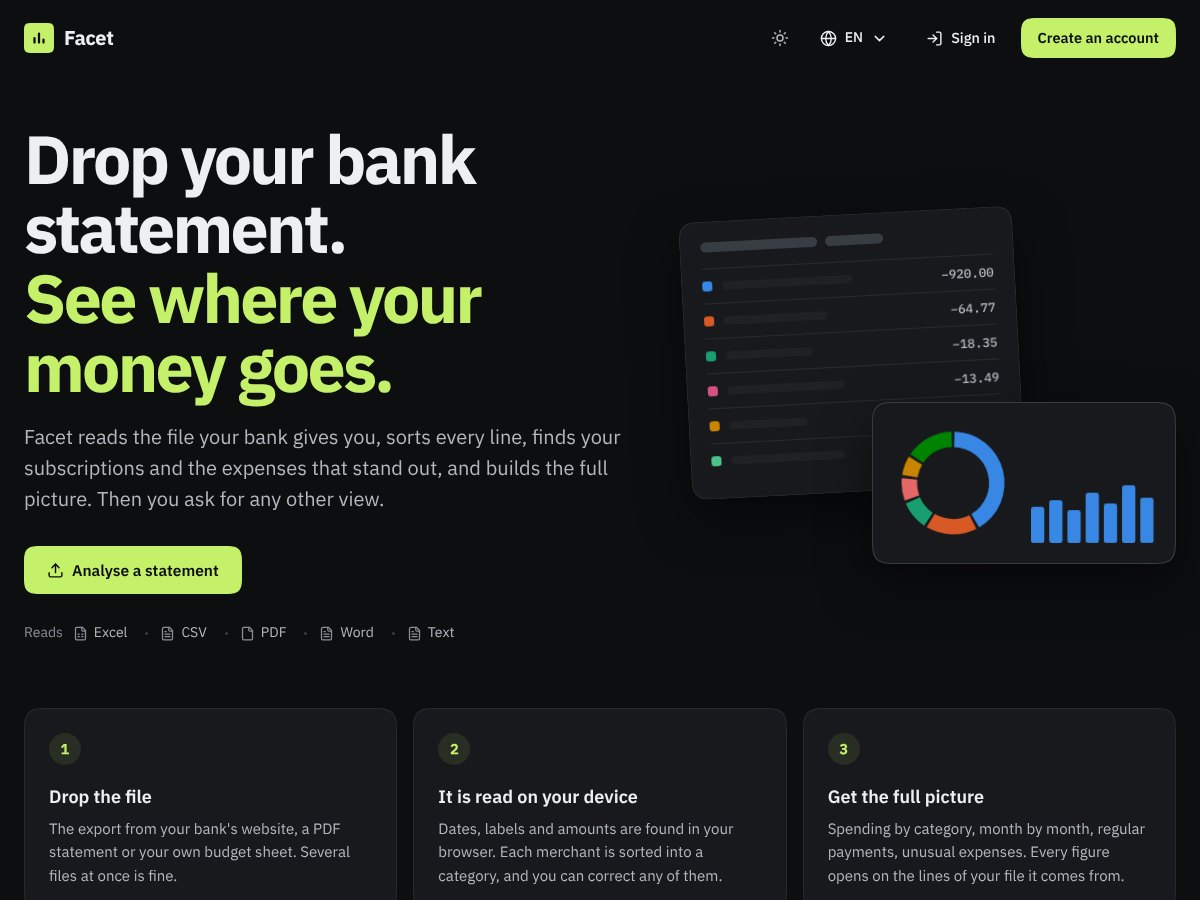
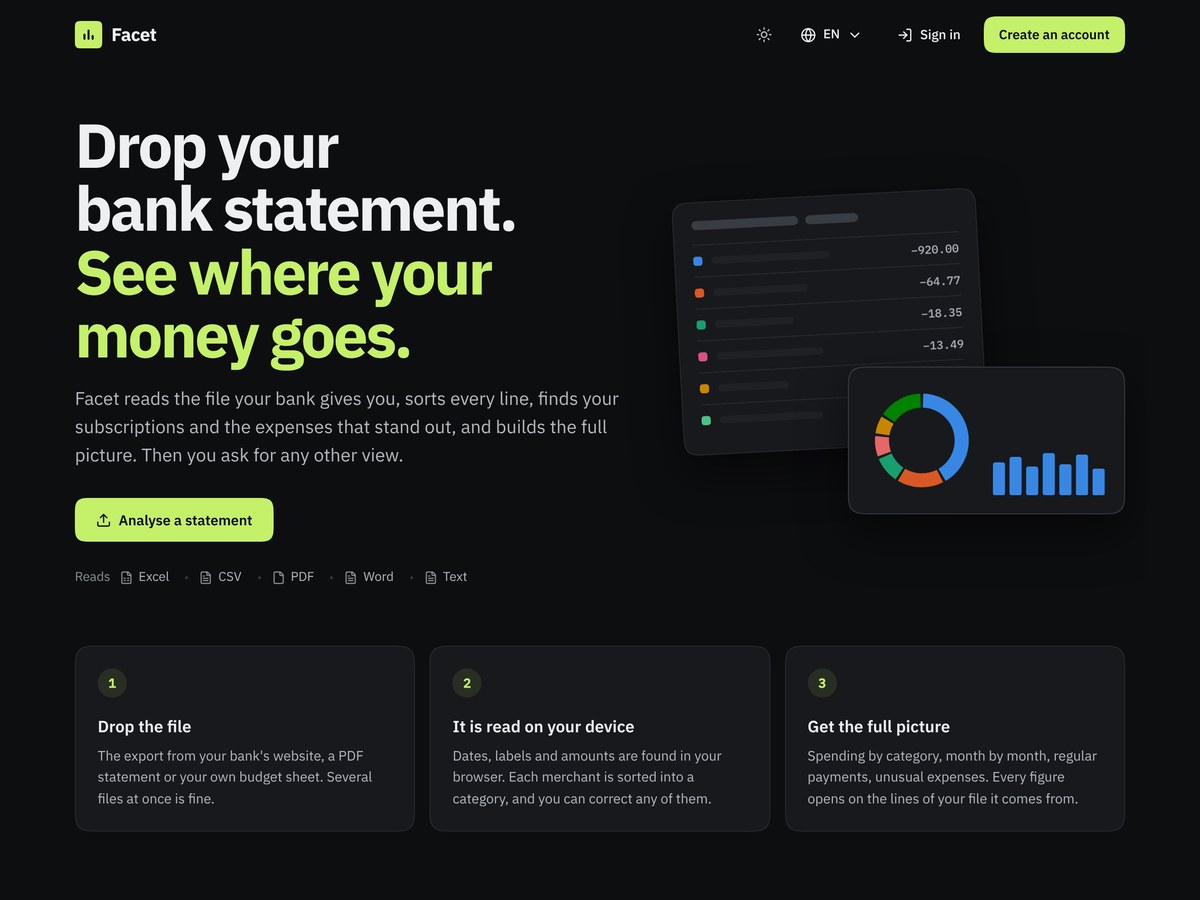
V7 etape 16 + ajout 1 (S79-S91)

diff --git a/src/styles/global.css b/src/styles/global.css
@@ -199,6 +199,13 @@ select:not(:disabled) {
   display: inline-block;
   transform: translateY(-0.1em);
 }
+/* Étape 16, S82: "All recommendations →", "More about me →" and "See craft →":
+   the same thin arrow, centred on the middle of the lowercase letters
+   (x-height). Measured at 4x: the arrow's ink middle sits 0.32 em above the
+   baseline, the middle of "a" / "o" 0.27 em, so it goes down 0.05 em. */
+.arr.arr-x {
+  transform: translateY(0.05em);
+}
 
 /* Étape 13, 11: arrow of the "← Back…" links = the same arrow as the
    "More about me →" button (the → character, .arr), turned to the left. */
@@ -295,6 +302,21 @@ select:not(:disabled) {
 .marquee-mask:hover .marquee-track,
 .marquee-mask:focus-within .marquee-track {
   animation-play-state: paused;
+}
+/* Étape 16, S91 (names strip only): each click or tap (Enter or Space on the
+   keyboard) toggles pause / play (LogosMarquee.astro); a click elsewhere
+   plays again. "lm-playing" wins over the hover and focus pauses. */
+/* 44 px tap area (the names are 28 px high), layout unchanged. */
+.logos-mask {
+  padding-block: 8px;
+  margin-block: -8px;
+}
+.logos-mask:focus-visible { outline-offset: -4px; } /* same ring as before */
+.logos-mask.lm-paused .marquee-track {
+  animation-play-state: paused;
+}
+.logos-mask.lm-playing .marquee-track {
+  animation-play-state: running;
 }
 .marquee-mask:focus-visible {
   outline: 2px solid var(--color-accent);
@@ -432,7 +454,7 @@ main:focus { outline: none; }
   animation: none;
 }
 
-/* Étape 11, 14: theme switch = one 0.4 s fade of the whole page (header
+/* Étape 11, 14: theme switch = one fade (0.8 s since étape 16, S87) of the whole page (header
    included), set by Nav.astro with document.startViewTransition. The
    per-element colour fades are off meanwhile, so nothing changes early. */
 html.theme-switching,
@@ -447,8 +469,12 @@ html.theme-switching #site-header {
 html.theme-switching::view-transition-old(root) {
   animation: none;
 }
+/* Étape 16, S87: twice as slow (0.4 s -> 0.8 s) and an even fade (linear):
+   the new theme comes in over the old one in a single layer (background,
+   text, cards and images together), so nothing flashes white. Reduced
+   motion: no fade (the change is instant, see Nav.astro). */
 html.theme-switching::view-transition-new(root) {
-  animation: 400ms ease both vt-fade-in;
+  animation: 800ms linear both vt-fade-in;
 }
 
 /* Étape 15, S46: ONE spacing rule for the 21 pages (multiples of 8).
@@ -607,7 +633,7 @@ section[data-zone-label="Gallery"] .narrow-masonry > [data-desktop-item] {
 
 /* Étape 15, S46: project pages with one zone (no filter bar): the thin rule
    between the case-study block and the first zone. */
-.zf-bare ~ div > .zone-sec.zone-first {
+.zf-bare:not([data-zf-pre]) ~ div > .zone-sec.zone-first {
   padding-top: var(--sp-sec);
   border-top: 1px solid color-mix(in srgb, var(--color-ink) 10%, transparent);
 }
@@ -623,3 +649,29 @@ section[data-zone-label="Gallery"] .narrow-masonry > [data-desktop-item] {
 .craft-btn { margin-top: calc(var(--sp-btn) - 4px); }
 @media (max-width: 639.98px) { .craft-strip { margin-bottom: 0; } }
 .work-head { margin-bottom: calc(var(--sp-title) - 4px); }
+
+/* Étape 16, S81: ONE text rule for every inner project page (Selected Work,
+   Earlier work, AI Lab): the intro under the title 17 px, the long paragraphs
+   (text under "View live demo", case study, columns, scope) 16 px, all in the
+   grey of the Work intro. Line heights unchanged. Small labels (13-15 px)
+   keep their own sizes. */
+:root {
+  --fs-proj-intro: 17px;
+  --fs-proj-long: 16px;
+  --c-proj-text: var(--color-muted);
+}
+.proj-intro { font-size: var(--fs-proj-intro); line-height: 28px; color: var(--c-proj-text); }
+.proj-long { font-size: var(--fs-proj-long); color: var(--c-proj-text); }
+
+/* Étape 16, S84: a link of the phone menu leaves an inner page: the sticky
+   back bar fades out with the menu (same 320 ms and curve as .mobile-nav-panel
+   in Nav.astro), in one move. */
+.zf-leave,
+.zf-leave.is-stuck {
+  opacity: 0 !important;
+  transition: opacity 320ms cubic-bezier(0.4, 0, 0.2, 1) !important;
+}
+@media (prefers-reduced-motion: reduce) {
+  .zf-leave,
+  .zf-leave.is-stuck { transition: none !important; }
+}

diff --git a/src/data/siteVersion.ts b/src/data/siteVersion.ts
@@ -1,4 +1,4 @@
 // Étape 9, E3 (David): release marker shown in the footer, right of "Colophon".
 // RULE: add exactly 1 at EVERY release (V1, V2, V3…), so David sees at once
 // that the live site has changed.
-export const SITE_VERSION = 'V6';
+export const SITE_VERSION = 'V7';
